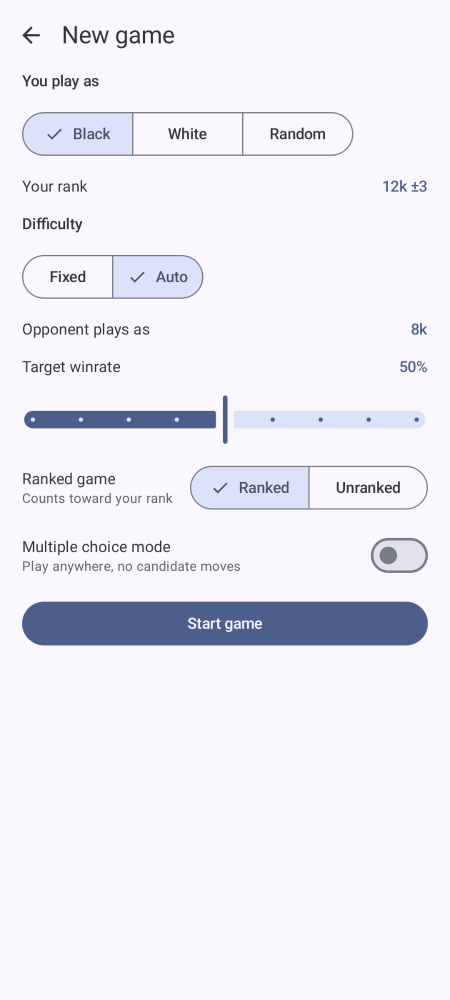
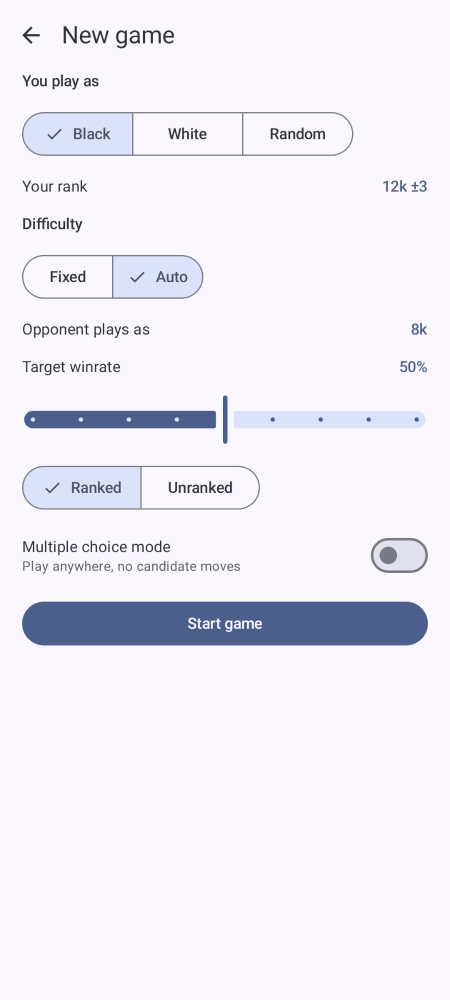
New game: Ranked toggle stands alone, description removed

diff --git a/android/app/src/main/java/com/gotrainer/nine/ui/NewGameScreen.kt b/android/app/src/main/java/com/gotrainer/nine/ui/NewGameScreen.kt
@@ -155,29 +155,15 @@ fun NewGameScreen(
             // games are always unrated, so the toggle locks to Unranked there.
             // The opt-in survives: flip back to free play and Ranked returns.
             val canRank = !draftMultipleChoice || draftBest + draftWorst == 0
-            Row(
-                verticalAlignment = Alignment.CenterVertically,
-                horizontalArrangement = Arrangement.SpaceBetween,
-                modifier = Modifier.fillMaxWidth(),
-            ) {
-                Column(modifier = Modifier.weight(1f)) {
-                    Text("Ranked game", style = MaterialTheme.typography.bodyMedium)
-                    Text(
-                        if (canRank) "Counts toward your rank" else "Needs free choice — no candidate moves",
-                        style = MaterialTheme.typography.bodySmall,
-                        color = MaterialTheme.colorScheme.onSurfaceVariant,
+            SingleChoiceSegmentedButtonRow {
+                listOf(true to "Ranked", false to "Unranked").forEachIndexed { i, (v, label) ->
+                    SegmentedButton(
+                        selected = (if (canRank) draftRanked else false) == v,
+                        onClick = { onDraftRanked(v) },
+                        enabled = canRank,
+                        shape = SegmentedButtonDefaults.itemShape(i, 2),
+                        label = { Text(label) },
                     )
-                }
-                SingleChoiceSegmentedButtonRow {
-                    listOf(true to "Ranked", false to "Unranked").forEachIndexed { i, (v, label) ->
-                        SegmentedButton(
-                            selected = (if (canRank) draftRanked else false) == v,
-                            onClick = { onDraftRanked(v) },
-                            enabled = canRank,
-                            shape = SegmentedButtonDefaults.itemShape(i, 2),
-                            label = { Text(label) },
-                        )
-                    }
                 }
             }
 
